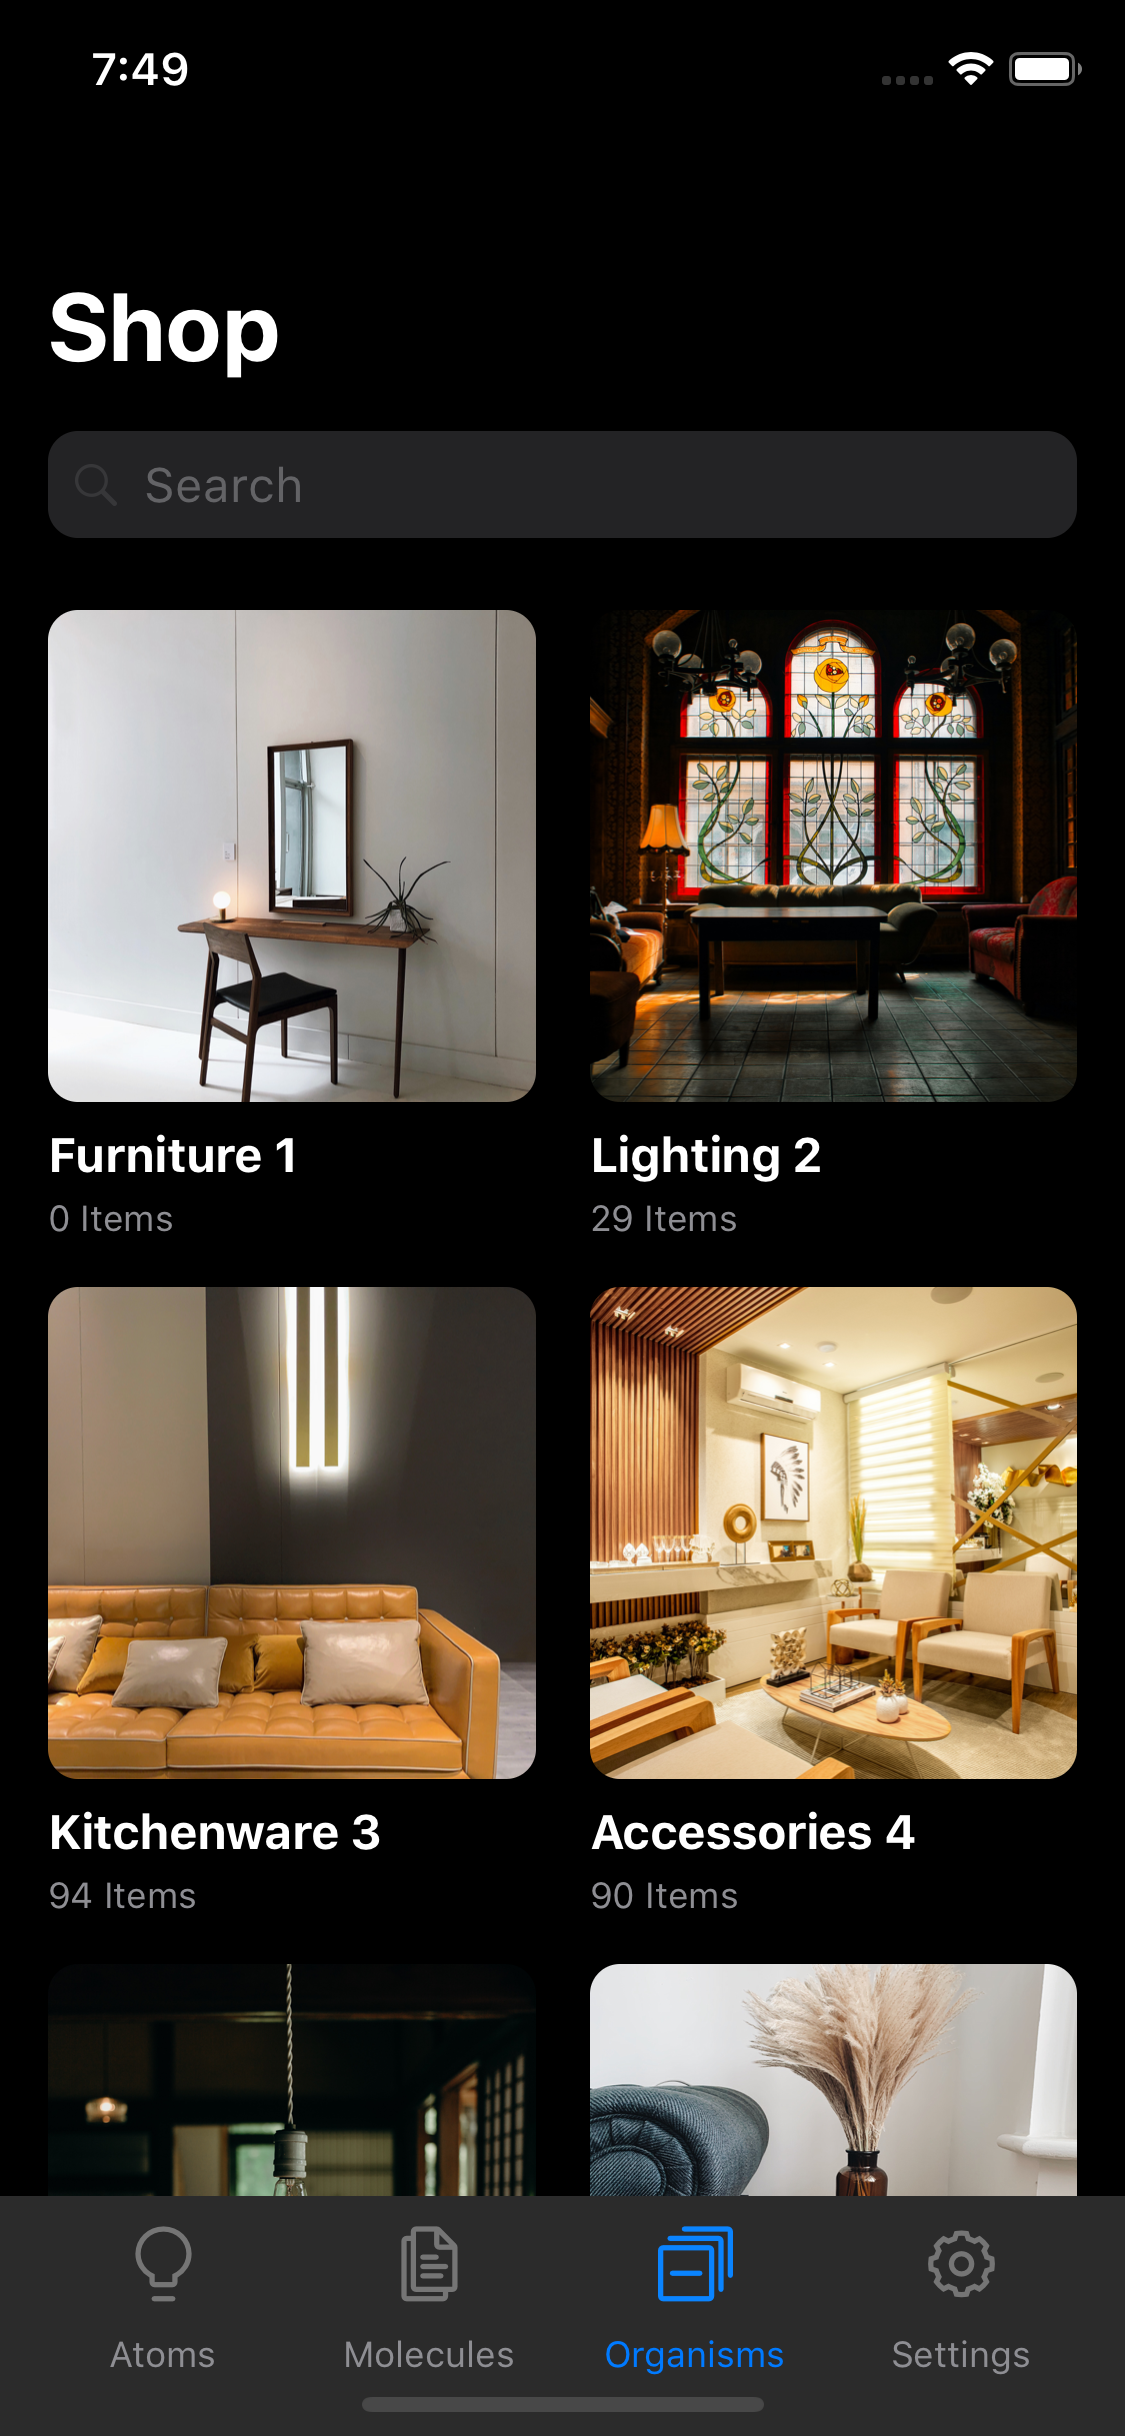
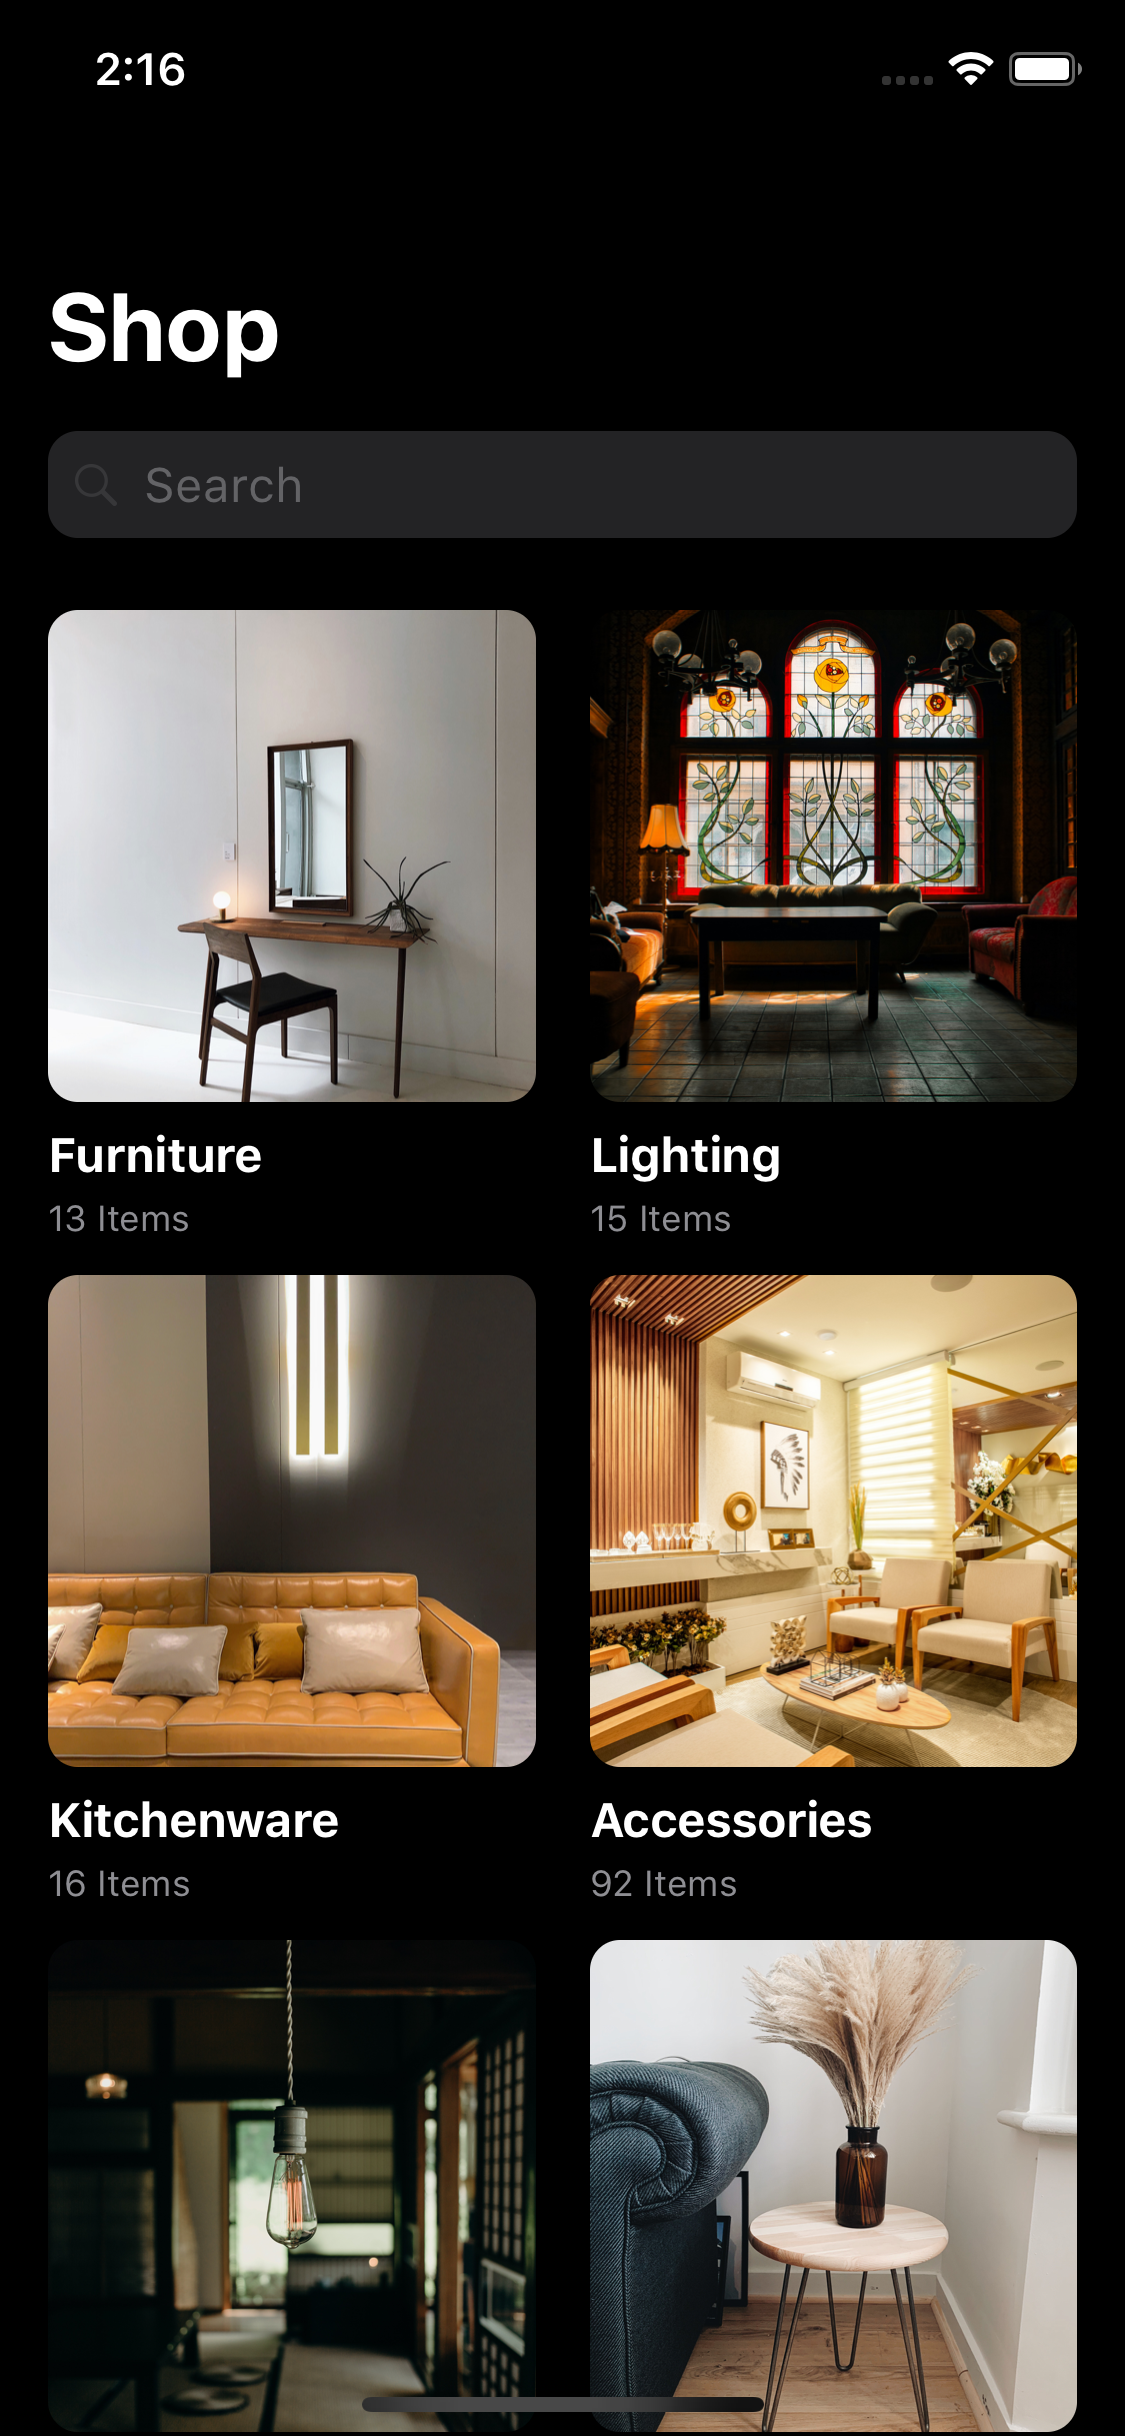
chore: :bento: Added shop and brand screens images

diff --git a/src/utils/assetFiles.js b/src/utils/assetFiles.js
@@ -1,0 +1,69 @@
+export const shopLight = [
+  "/shop/light/initial.png",
+  "/shop/light/scrolled.png",
+  "/shop/light/searchfocussed.png",
+];
+
+export const shopDark = [
+  "/shop/dark/initial.png",
+  "/shop/dark/scrolled.png",
+  "/shop/dark/searchfocussed.png",
+];
+
+export const brandsMLight = [
+  "/brands-m/light/initial.png",
+  "/brands-m/light/scrolled.png",
+];
+
+export const brandsMDark = [
+  "/brands-m/dark/initial.png",
+  "/brands-m/dark/scrolled.png",
+];
+
+export const brandsDLight = [
+  "/brands-d/light/initial.png",
+  "/brands-d/light/scrolled.png",
+];
+
+export const brandsDDark = [
+  "/brands-d/dark/initial.png",
+  "/brands-d/dark/scrolled.png",
+];
+
+export const discoverLight = [
+  "/discover/light/initial.png",
+  "/discover/light/scrolled.png",
+  "/discover/light/scrolled1.png",
+  "/discover/light/scrolled2.png",
+  "/discover/light/scrolled3.png",
+];
+export const discoverDark = [
+  "/discover/dark/initial.png",
+  "/discover/dark/scrolled.png",
+  "/discover/dark/scrolled1.png",
+  "/discover/dark/scrolled2.png",
+  "/discover/dark/scrolled3.png",
+];
+
+export const accountDark = [
+  "/account/dark/initial.png",
+  "/account/dark/scrolled.png",
+];
+export const accountLight = [
+  "/account/light/initial.png",
+  "/account/light/scrolled.png",
+];
+
+export const checkoutLight = [
+  "/checkout/light/initial.png",
+  "/checkout/light/scrolled.png",
+];
+
+export const checkoutDark = [
+  "/checkout/dark/initial.png",
+  "/checkout/dark/scrolled.png",
+];
+
+export const shoppingbagLight = ["/shoppingbag/light/initial.png"];
+
+export const shoppingbagDark = ["/shoppingbag/dark/initial.png"];
